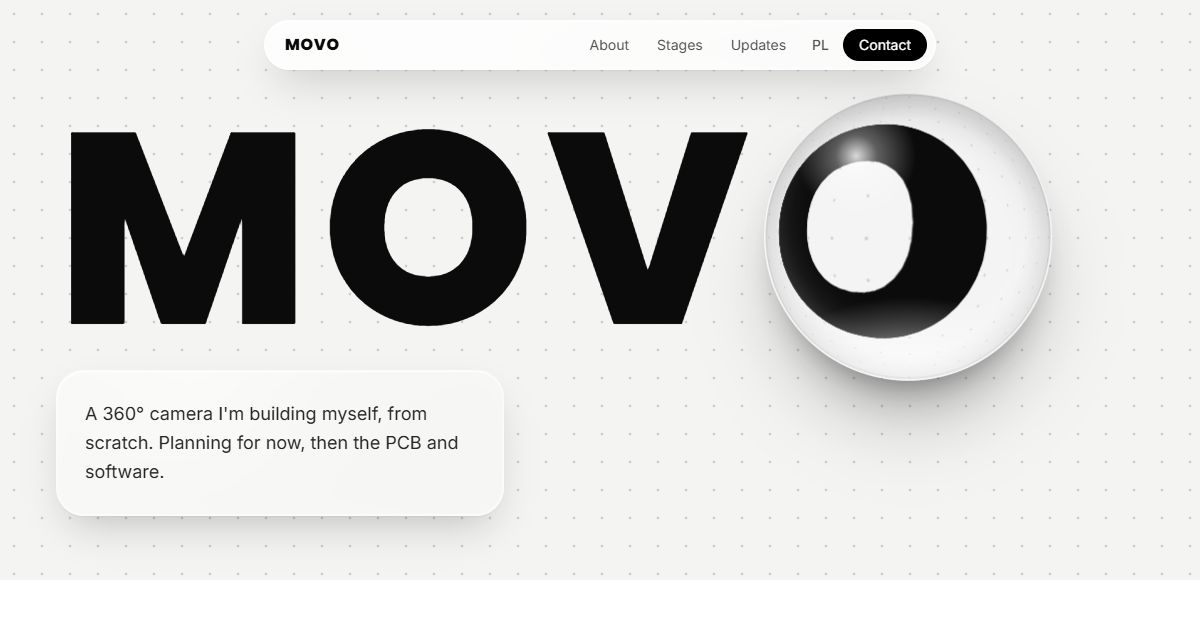
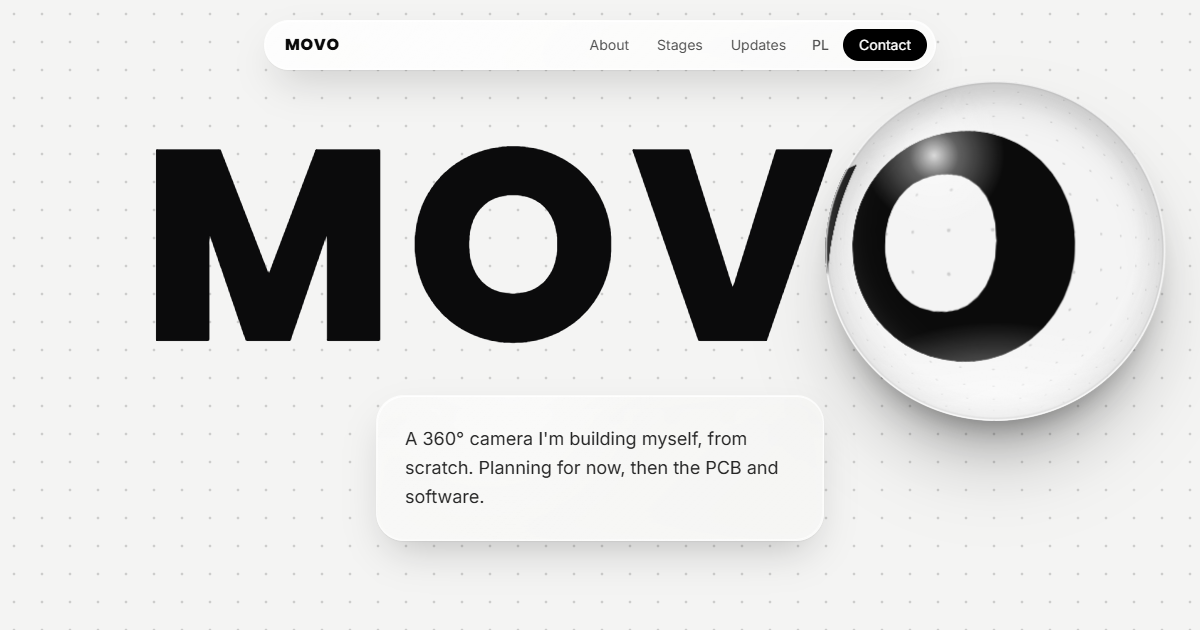
Hero wyśrodkowany, soczewka dopasowana do ekranu

diff --git a/tw.css b/tw.css
@@ -1,1 +1,1 @@
-*,:after,:before{--tw-border-spacing-x:0;--tw-border-spacing-y:0;--tw-translate-x:0;--tw-translate-y:0;--tw-rotate:0;--tw-skew-x:0;--tw-skew-y:0;--tw-scale-x:1;--tw-scale-y:1;--tw-pan-x: ;--tw-pan-y: ;--tw-pinch-zoom: ;--tw-scroll-snap-strictness:proximity;--tw-gradient-from-position: ;--tw-gradient-via-position: ;--tw-gradient-to-position: ;--tw-ordinal: ;--tw-slashed-zero: ;--tw-numeric-figure: ;--tw-numeric-spacing: ;--tw-numeric-fraction: ;--tw-ring-inset: ;--tw-ring-offset-width:0px;--tw-ring-offset-color:#fff;--tw-ring-color:rgba(59,130,246,.5);--tw-ring-offset-shadow:0 0 #0000;--tw-ring-shadow:0 0 #0000;--tw-shadow:0 0 #0000;--tw-shadow-colored:0 0 #0000;--tw-blur: ;--tw-brightness: ;--tw-contrast: ;--tw-grayscale: ;--tw-hue-rotate: ;--tw-invert: ;--tw-saturate: ;--tw-sepia: ;--tw-drop-shadow: ;--tw-backdrop-blur: ;--tw-backdrop-brightness: ;--tw-backdrop-contrast: ;--tw-backdrop-grayscale: ;--tw-backdrop-hue-rotate: ;--tw-backdrop-invert: ;--tw-backdrop-opacity: ;--tw-backdrop-saturate: ;--tw-backdrop-sepia: ;--tw-contain-size: ;--tw-contain-layout: ;--tw-contain-paint: ;--tw-contain-style: }::backdrop{--tw-border-spacing-x:0;--tw-border-spacing-y:0;--tw-translate-x:0;--tw-translate-y:0;--tw-rotate:0;--tw-skew-x:0;--tw-skew-y:0;--tw-scale-x:1;--tw-scale-y:1;--tw-pan-x: ;--tw-pan-y: ;--tw-pinch-zoom: ;--tw-scroll-snap-strictness:proximity;--tw-gradient-from-position: ;--tw-gradient-via-position: ;--tw-gradient-to-position: ;--tw-ordinal: ;--tw-slashed-zero: ;--tw-numeric-figure: ;--tw-numeric-spacing: ;--tw-numeric-fraction: ;--tw-ring-inset: ;--tw-ring-offset-width:0px;--tw-ring-offset-color:#fff;--tw-ring-color:rgba(59,130,246,.5);--tw-ring-offset-shadow:0 0 #0000;--tw-ring-shadow:0 0 #0000;--tw-shadow:0 0 #0000;--tw-shadow-colored:0 0 #0000;--tw-blur: ;--tw-brightness: ;--tw-contrast: ;--tw-grayscale: ;--tw-hue-rotate: ;--tw-invert: ;--tw-saturate: ;--tw-sepia: ;--tw-drop-shadow: ;--tw-backdrop-blur: ;--tw-backdrop-brightness: ;--tw-backdrop-contrast: ;--tw-backdrop-grayscale: ;--tw-backdrop-hue-rotate: ;--tw-backdrop-invert: ;--tw-backdrop-opacity: ;--tw-backdrop-saturate: ;--tw-backdrop-sepia: ;--tw-contain-size: ;--tw-contain-layout: ;--tw-contain-paint: ;--tw-contain-style: }/*! tailwindcss v3.4.17 | MIT License | https://tailwindcss.com*/*,:after,:before{box-sizing:border-box;border:0 solid #e5e7eb}:after,:before{--tw-content:""}:host,html{line-height:1.5;-webkit-text-size-adjust:100%;-moz-tab-size:4;-o-tab-size:4;tab-size:4;font-family:Inter,system-ui,sans-serif;font-feature-settings:normal;font-variation-settings:normal;-webkit-tap-highlight-color:transparent}body{margin:0;line-height:inherit}hr{height:0;color:inherit;border-top-width:1px}abbr:where([title]){-webkit-text-decoration:underline dotted;text-decoration:underline dotted}h1,h2,h3,h4,h5,h6{font-size:inherit;font-weight:inherit}a{color:inherit;text-decoration:inherit}b,strong{font-weight:bolder}code,kbd,pre,samp{font-family:ui-monospace,SFMono-Regular,Menlo,Monaco,Consolas,Liberation Mono,Courier New,monospace;font-feature-settings:normal;font-variation-settings:normal;font-size:1em}small{font-size:80%}sub,sup{font-size:75%;line-height:0;position:relative;vertical-align:baseline}sub{bottom:-.25em}sup{top:-.5em}table{text-indent:0;border-color:inherit;border-collapse:collapse}button,input,optgroup,select,textarea{font-family:inherit;font-feature-settings:inherit;font-variation-settings:inherit;font-size:100%;font-weight:inherit;line-height:inherit;letter-spacing:inherit;color:inherit;margin:0;padding:0}button,select{text-transform:none}button,input:where([type=button]),input:where([type=reset]),input:where([type=submit]){-webkit-appearance:button;background-color:transparent;background-image:none}:-moz-focusring{outline:auto}:-moz-ui-invalid{box-shadow:none}progress{vertical-align:baseline}::-webkit-inner-spin-button,::-webkit-outer-spin-button{height:auto}[type=search]{-webkit-appearance:textfield;outline-offset:-2px}::-webkit-search-decoration{-webkit-appearance:none}::-webkit-file-upload-button{-webkit-appearance:button;font:inherit}summary{display:list-item}blockquote,dd,dl,figure,h1,h2,h3,h4,h5,h6,hr,p,pre{margin:0}fieldset{margin:0}fieldset,legend{padding:0}menu,ol,ul{list-style:none;margin:0;padding:0}dialog{padding:0}textarea{resize:vertical}input::-moz-placeholder,textarea::-moz-placeholder{opacity:1;color:#9ca3af}input::placeholder,textarea::placeholder{opacity:1;color:#9ca3af}[role=button],button{cursor:pointer}:disabled{cursor:default}audio,canvas,embed,iframe,img,object,svg,video{display:block;vertical-align:middle}img,video{max-width:100%;height:auto}[hidden]:where(:not([hidden=until-found])){display:none}.pointer-events-none{pointer-events:none}.fixed{position:fixed}.absolute{position:absolute}.relative{position:relative}.inset-x-0{left:0;right:0}.inset-x-3{left:.75rem;right:.75rem}.inset-x-6{left:1.5rem;right:1.5rem}.-bottom-20{bottom:-5rem}.-bottom-32{bottom:-8rem}.-left-16{left:-4rem}.-left-20{left:-5rem}.-left-24{left:-6rem}.-left-\[7px\]{left:-7px}.-right-16{right:-4rem}.-right-32{right:-8rem}.-right-40{right:-10rem}.-top-10{top:-2.5rem}.-top-20{top:-5rem}.bottom-0{bottom:0}.bottom-10{bottom:2.5rem}.bottom-3{bottom:.75rem}.bottom-6{bottom:1.5rem}.left-10{left:2.5rem}.top-0{top:0}.top-1\/3{top:33.333333%}.top-10{top:2.5rem}.top-3{top:.75rem}.z-50{z-index:50}.z-\[1\]{z-index:1}.z-\[3\]{z-index:3}.z-\[60\]{z-index:60}.z-\[70\]{z-index:70}.mx-auto{margin-left:auto;margin-right:auto}.mb-6{margin-bottom:1.5rem}.mb-8{margin-bottom:2rem}.mt-1\.5{margin-top:.375rem}.mt-10{margin-top:2.5rem}.mt-12{margin-top:3rem}.mt-14{margin-top:3.5rem}.mt-2{margin-top:.5rem}.mt-3{margin-top:.75rem}.mt-4{margin-top:1rem}.mt-5{margin-top:1.25rem}.mt-6{margin-top:1.5rem}.mt-8{margin-top:2rem}.line-clamp-3{overflow:hidden;display:-webkit-box;-webkit-box-orient:vertical;-webkit-line-clamp:3}.block{display:block}.inline-block{display:inline-block}.flex{display:flex}.grid{display:grid}.contents{display:contents}.hidden{display:none}.aspect-\[4\/5\]{aspect-ratio:4/5}.aspect-square{aspect-ratio:1/1}.h-2{height:.5rem}.h-3\.5{height:.875rem}.h-\[2px\]{height:2px}.h-full{height:100%}.min-h-\[1\.25rem\]{min-height:1.25rem}.min-h-\[92svh\]{min-height:92svh}.min-h-screen{min-height:100vh}.min-h-svh{min-height:100svh}.w-2{width:.5rem}.w-3\.5{width:.875rem}.w-\[22\%\]{width:22%}.w-\[45vw\]{width:45vw}.w-\[60vw\]{width:60vw}.w-\[70vw\]{width:70vw}.w-\[75\%\]{width:75%}.w-\[80vw\]{width:80vw}.w-\[85\%\]{width:85%}.w-\[90vw\]{width:90vw}.w-full{width:100%}.min-w-0{min-width:0}.max-w-2xl{max-width:42rem}.max-w-3xl{max-width:48rem}.max-w-6xl{max-width:72rem}.max-w-\[340px\]{max-width:340px}.max-w-\[420px\]{max-width:420px}.max-w-\[520px\]{max-width:520px}.max-w-\[620px\]{max-width:620px}.max-w-\[700px\]{max-width:700px}.max-w-lg{max-width:32rem}.max-w-md{max-width:28rem}.max-w-sm{max-width:24rem}.max-w-xl{max-width:36rem}.flex-1{flex:1 1 0%}.shrink-0{flex-shrink:0}.origin-left{transform-origin:left}.scale-x-0{--tw-scale-x:0}.scale-x-0,.transform{transform:translate(var(--tw-translate-x),var(--tw-translate-y)) rotate(var(--tw-rotate)) skewX(var(--tw-skew-x)) skewY(var(--tw-skew-y)) scaleX(var(--tw-scale-x)) scaleY(var(--tw-scale-y))}@keyframes ping{75%,to{transform:scale(2);opacity:0}}.animate-ping{animation:ping 1s cubic-bezier(0,0,.2,1) infinite}@keyframes pulse{50%{opacity:.5}}.animate-pulse{animation:pulse 2s cubic-bezier(.4,0,.6,1) infinite}.resize{resize:both}.list-decimal{list-style-type:decimal}.flex-col{flex-direction:column}.flex-wrap{flex-wrap:wrap}.place-items-center{place-items:center}.items-start{align-items:flex-start}.items-end{align-items:flex-end}.items-center{align-items:center}.items-baseline{align-items:baseline}.justify-between{justify-content:space-between}.gap-1{gap:.25rem}.gap-1\.5{gap:.375rem}.gap-10{gap:2.5rem}.gap-2{gap:.5rem}.gap-3{gap:.75rem}.gap-4{gap:1rem}.gap-x-3{-moz-column-gap:.75rem;column-gap:.75rem}.gap-y-1{row-gap:.25rem}.space-y-1>:not([hidden])~:not([hidden]){--tw-space-y-reverse:0;margin-top:calc(.25rem*(1 - var(--tw-space-y-reverse)));margin-bottom:calc(.25rem*var(--tw-space-y-reverse))}.divide-y>:not([hidden])~:not([hidden]){--tw-divide-y-reverse:0;border-top-width:calc(1px*(1 - var(--tw-divide-y-reverse)));border-bottom-width:calc(1px*var(--tw-divide-y-reverse))}.divide-black\/10>:not([hidden])~:not([hidden]){border-color:rgba(0,0,0,.1)}.overflow-hidden,.truncate{overflow:hidden}.truncate{text-overflow:ellipsis;white-space:nowrap}.break-all{word-break:break-all}.rounded-2xl{border-radius:1rem}.rounded-\[22px\]{border-radius:22px}.rounded-\[24px\]{border-radius:24px}.rounded-\[28px\]{border-radius:28px}.rounded-\[32px\]{border-radius:32px}.rounded-full{border-radius:9999px}.rounded-xl{border-radius:.75rem}.border{border-width:1px}.border-\[3px\]{border-width:3px}.border-b{border-bottom-width:1px}.border-l{border-left-width:1px}.border-t{border-top-width:1px}.border-black{--tw-border-opacity:1;border-color:rgb(0 0 0/var(--tw-border-opacity,1))}.border-black\/10{border-color:rgba(0,0,0,.1)}.border-black\/15{border-color:rgba(0,0,0,.15)}.border-black\/30{border-color:rgba(0,0,0,.3)}.border-white\/10{border-color:hsla(0,0%,100%,.1)}.border-white\/15{border-color:hsla(0,0%,100%,.15)}.bg-\[\#f4f4f3\]{--tw-bg-opacity:1;background-color:rgb(244 244 243/var(--tw-bg-opacity,1))}.bg-black{--tw-bg-opacity:1;background-color:rgb(0 0 0/var(--tw-bg-opacity,1))}.bg-black\/30{background-color:rgba(0,0,0,.3)}.bg-neutral-800{--tw-bg-opacity:1;background-color:rgb(38 38 38/var(--tw-bg-opacity,1))}.bg-white{--tw-bg-opacity:1;background-color:rgb(255 255 255/var(--tw-bg-opacity,1))}.bg-white\/70{background-color:hsla(0,0%,100%,.7)}.p-4{padding:1rem}.p-5{padding:1.25rem}.p-6{padding:1.5rem}.p-7{padding:1.75rem}.px-1{padding-left:.25rem;padding-right:.25rem}.px-2{padding-left:.5rem;padding-right:.5rem}.px-2\.5{padding-left:.625rem;padding-right:.625rem}.px-3{padding-left:.75rem;padding-right:.75rem}.px-4{padding-left:1rem;padding-right:1rem}.px-5{padding-left:1.25rem;padding-right:1.25rem}.px-6{padding-left:1.5rem;padding-right:1.5rem}.py-1\.5{padding-top:.375rem;padding-bottom:.375rem}.py-10{padding-top:2.5rem;padding-bottom:2.5rem}.py-2{padding-top:.5rem;padding-bottom:.5rem}.py-2\.5{padding-top:.625rem;padding-bottom:.625rem}.py-24{padding-top:6rem;padding-bottom:6rem}.py-3{padding-top:.75rem;padding-bottom:.75rem}.py-4{padding-top:1rem;padding-bottom:1rem}.py-9{padding-top:2.25rem;padding-bottom:2.25rem}.pb-10{padding-bottom:2.5rem}.pb-24{padding-bottom:6rem}.pb-6{padding-bottom:1.5rem}.pl-5{padding-left:1.25rem}.pl-8{padding-left:2rem}.pr-2{padding-right:.5rem}.pt-28{padding-top:7rem}.pt-32{padding-top:8rem}.pt-4{padding-top:1rem}.text-right{text-align:right}.font-display{font-family:Inter Tight,Inter,system-ui,sans-serif}.font-mono{font-family:ui-monospace,SFMono-Regular,Menlo,Monaco,Consolas,Liberation Mono,Courier New,monospace}.font-sans{font-family:Inter,system-ui,sans-serif}.text-2xl{font-size:1.5rem;line-height:2rem}.text-3xl{font-size:1.875rem;line-height:2.25rem}.text-4xl{font-size:2.25rem;line-height:2.5rem}.text-6xl{font-size:3.75rem;line-height:1}.text-\[7rem\]{font-size:7rem}.text-base{font-size:1rem;line-height:1.5rem}.text-lg{font-size:1.125rem;line-height:1.75rem}.text-sm{font-size:.875rem;line-height:1.25rem}.text-xl{font-size:1.25rem;line-height:1.75rem}.text-xs{font-size:.75rem;line-height:1rem}.font-bold{font-weight:700}.font-extrabold{font-weight:800}.font-medium{font-weight:500}.font-semibold{font-weight:600}.uppercase{text-transform:uppercase}.normal-case{text-transform:none}.tabular-nums{--tw-numeric-spacing:tabular-nums;font-variant-numeric:var(--tw-ordinal) var(--tw-slashed-zero) var(--tw-numeric-figure) var(--tw-numeric-spacing) var(--tw-numeric-fraction)}.leading-\[0\.75\]{line-height:.75}.leading-relaxed{line-height:1.625}.leading-snug{line-height:1.375}.tracking-normal{letter-spacing:0}.tracking-tight{letter-spacing:-.025em}.tracking-tighter{letter-spacing:-.05em}.tracking-wider{letter-spacing:.05em}.text-black{--tw-text-opacity:1;color:rgb(0 0 0/var(--tw-text-opacity,1))}.text-neutral-400{--tw-text-opacity:1;color:rgb(163 163 163/var(--tw-text-opacity,1))}.text-neutral-500{--tw-text-opacity:1;color:rgb(115 115 115/var(--tw-text-opacity,1))}.text-neutral-600{--tw-text-opacity:1;color:rgb(82 82 82/var(--tw-text-opacity,1))}.text-neutral-800{--tw-text-opacity:1;color:rgb(38 38 38/var(--tw-text-opacity,1))}.text-neutral-950{--tw-text-opacity:1;color:rgb(10 10 10/var(--tw-text-opacity,1))}.text-white{--tw-text-opacity:1;color:rgb(255 255 255/var(--tw-text-opacity,1))}.underline{text-decoration-line:underline}.underline-offset-4{text-underline-offset:4px}.antialiased{-webkit-font-smoothing:antialiased;-moz-osx-font-smoothing:grayscale}.outline-none{outline:2px solid transparent;outline-offset:2px}.filter{filter:var(--tw-blur) var(--tw-brightness) var(--tw-contrast) var(--tw-grayscale) var(--tw-hue-rotate) var(--tw-invert) var(--tw-saturate) var(--tw-sepia) var(--tw-drop-shadow)}.transition{transition-property:color,background-color,border-color,text-decoration-color,fill,stroke,opacity,box-shadow,transform,filter,-webkit-backdrop-filter;transition-property:color,background-color,border-color,text-decoration-color,fill,stroke,opacity,box-shadow,transform,filter,backdrop-filter;transition-property:color,background-color,border-color,text-decoration-color,fill,stroke,opacity,box-shadow,transform,filter,backdrop-filter,-webkit-backdrop-filter;transition-timing-function:cubic-bezier(.4,0,.2,1);transition-duration:.15s}.selection\:bg-black ::-moz-selection{--tw-bg-opacity:1;background-color:rgb(0 0 0/var(--tw-bg-opacity,1))}.selection\:bg-black ::selection{--tw-bg-opacity:1;background-color:rgb(0 0 0/var(--tw-bg-opacity,1))}.selection\:text-white ::-moz-selection{--tw-text-opacity:1;color:rgb(255 255 255/var(--tw-text-opacity,1))}.selection\:text-white ::selection{--tw-text-opacity:1;color:rgb(255 255 255/var(--tw-text-opacity,1))}.selection\:bg-black::-moz-selection{--tw-bg-opacity:1;background-color:rgb(0 0 0/var(--tw-bg-opacity,1))}.selection\:bg-black::selection{--tw-bg-opacity:1;background-color:rgb(0 0 0/var(--tw-bg-opacity,1))}.selection\:text-white::-moz-selection{--tw-text-opacity:1;color:rgb(255 255 255/var(--tw-text-opacity,1))}.selection\:text-white::selection{--tw-text-opacity:1;color:rgb(255 255 255/var(--tw-text-opacity,1))}.hover\:bg-neutral-800:hover{--tw-bg-opacity:1;background-color:rgb(38 38 38/var(--tw-bg-opacity,1))}.hover\:bg-white:hover{--tw-bg-opacity:1;background-color:rgb(255 255 255/var(--tw-bg-opacity,1))}.hover\:bg-white\/60:hover{background-color:hsla(0,0%,100%,.6)}.hover\:text-black:hover{--tw-text-opacity:1;color:rgb(0 0 0/var(--tw-text-opacity,1))}.hover\:text-neutral-400:hover{--tw-text-opacity:1;color:rgb(163 163 163/var(--tw-text-opacity,1))}.hover\:text-white:hover{--tw-text-opacity:1;color:rgb(255 255 255/var(--tw-text-opacity,1))}.hover\:underline:hover{text-decoration-line:underline}.focus\:border-black:focus{--tw-border-opacity:1;border-color:rgb(0 0 0/var(--tw-border-opacity,1))}.disabled\:opacity-40:disabled{opacity:.4}.disabled\:opacity-50:disabled{opacity:.5}@media (min-width:640px){.sm\:bottom-6{bottom:1.5rem}.sm\:top-5{top:1.25rem}.sm\:col-span-2{grid-column:span 2/span 2}.sm\:block{display:block}.sm\:max-w-\[200px\]{max-width:200px}.sm\:grid-cols-2{grid-template-columns:repeat(2,minmax(0,1fr))}.sm\:flex-row{flex-direction:row}.sm\:items-center{align-items:center}.sm\:p-12{padding:3rem}.sm\:p-7{padding:1.75rem}.sm\:p-8{padding:2rem}.sm\:px-6{padding-left:1.5rem;padding-right:1.5rem}.sm\:py-16{padding-top:4rem;padding-bottom:4rem}.sm\:text-5xl{font-size:3rem;line-height:1}.sm\:text-8xl{font-size:6rem;line-height:1}}@media (min-width:768px){.md\:-top-\[7px\]{top:-7px}.md\:left-0{left:0}.md\:grid-cols-5{grid-template-columns:repeat(5,minmax(0,1fr))}.md\:grid-cols-\[170px_1fr\]{grid-template-columns:170px 1fr}.md\:grid-cols-\[1fr_1\.2fr\]{grid-template-columns:1fr 1.2fr}.md\:gap-10{gap:2.5rem}.md\:gap-16{gap:4rem}.md\:border-l-0{border-left-width:0}.md\:border-t{border-top-width:1px}.md\:border-black\/15{border-color:rgba(0,0,0,.15)}.md\:py-36{padding-top:9rem;padding-bottom:9rem}.md\:pb-0{padding-bottom:0}.md\:pb-16{padding-bottom:4rem}.md\:pl-0{padding-left:0}.md\:pr-6{padding-right:1.5rem}.md\:pt-40{padding-top:10rem}.md\:pt-8{padding-top:2rem}.md\:text-\[1\.75rem\]{font-size:1.75rem}}@media (min-width:1024px){.lg\:grid-cols-4{grid-template-columns:repeat(4,minmax(0,1fr))}.lg\:px-8{padding-left:2rem;padding-right:2rem}}
+*,:after,:before{--tw-border-spacing-x:0;--tw-border-spacing-y:0;--tw-translate-x:0;--tw-translate-y:0;--tw-rotate:0;--tw-skew-x:0;--tw-skew-y:0;--tw-scale-x:1;--tw-scale-y:1;--tw-pan-x: ;--tw-pan-y: ;--tw-pinch-zoom: ;--tw-scroll-snap-strictness:proximity;--tw-gradient-from-position: ;--tw-gradient-via-position: ;--tw-gradient-to-position: ;--tw-ordinal: ;--tw-slashed-zero: ;--tw-numeric-figure: ;--tw-numeric-spacing: ;--tw-numeric-fraction: ;--tw-ring-inset: ;--tw-ring-offset-width:0px;--tw-ring-offset-color:#fff;--tw-ring-color:rgba(59,130,246,.5);--tw-ring-offset-shadow:0 0 #0000;--tw-ring-shadow:0 0 #0000;--tw-shadow:0 0 #0000;--tw-shadow-colored:0 0 #0000;--tw-blur: ;--tw-brightness: ;--tw-contrast: ;--tw-grayscale: ;--tw-hue-rotate: ;--tw-invert: ;--tw-saturate: ;--tw-sepia: ;--tw-drop-shadow: ;--tw-backdrop-blur: ;--tw-backdrop-brightness: ;--tw-backdrop-contrast: ;--tw-backdrop-grayscale: ;--tw-backdrop-hue-rotate: ;--tw-backdrop-invert: ;--tw-backdrop-opacity: ;--tw-backdrop-saturate: ;--tw-backdrop-sepia: ;--tw-contain-size: ;--tw-contain-layout: ;--tw-contain-paint: ;--tw-contain-style: }::backdrop{--tw-border-spacing-x:0;--tw-border-spacing-y:0;--tw-translate-x:0;--tw-translate-y:0;--tw-rotate:0;--tw-skew-x:0;--tw-skew-y:0;--tw-scale-x:1;--tw-scale-y:1;--tw-pan-x: ;--tw-pan-y: ;--tw-pinch-zoom: ;--tw-scroll-snap-strictness:proximity;--tw-gradient-from-position: ;--tw-gradient-via-position: ;--tw-gradient-to-position: ;--tw-ordinal: ;--tw-slashed-zero: ;--tw-numeric-figure: ;--tw-numeric-spacing: ;--tw-numeric-fraction: ;--tw-ring-inset: ;--tw-ring-offset-width:0px;--tw-ring-offset-color:#fff;--tw-ring-color:rgba(59,130,246,.5);--tw-ring-offset-shadow:0 0 #0000;--tw-ring-shadow:0 0 #0000;--tw-shadow:0 0 #0000;--tw-shadow-colored:0 0 #0000;--tw-blur: ;--tw-brightness: ;--tw-contrast: ;--tw-grayscale: ;--tw-hue-rotate: ;--tw-invert: ;--tw-saturate: ;--tw-sepia: ;--tw-drop-shadow: ;--tw-backdrop-blur: ;--tw-backdrop-brightness: ;--tw-backdrop-contrast: ;--tw-backdrop-grayscale: ;--tw-backdrop-hue-rotate: ;--tw-backdrop-invert: ;--tw-backdrop-opacity: ;--tw-backdrop-saturate: ;--tw-backdrop-sepia: ;--tw-contain-size: ;--tw-contain-layout: ;--tw-contain-paint: ;--tw-contain-style: }/*! tailwindcss v3.4.17 | MIT License | https://tailwindcss.com*/*,:after,:before{box-sizing:border-box;border:0 solid #e5e7eb}:after,:before{--tw-content:""}:host,html{line-height:1.5;-webkit-text-size-adjust:100%;-moz-tab-size:4;-o-tab-size:4;tab-size:4;font-family:Inter,system-ui,sans-serif;font-feature-settings:normal;font-variation-settings:normal;-webkit-tap-highlight-color:transparent}body{margin:0;line-height:inherit}hr{height:0;color:inherit;border-top-width:1px}abbr:where([title]){-webkit-text-decoration:underline dotted;text-decoration:underline dotted}h1,h2,h3,h4,h5,h6{font-size:inherit;font-weight:inherit}a{color:inherit;text-decoration:inherit}b,strong{font-weight:bolder}code,kbd,pre,samp{font-family:ui-monospace,SFMono-Regular,Menlo,Monaco,Consolas,Liberation Mono,Courier New,monospace;font-feature-settings:normal;font-variation-settings:normal;font-size:1em}small{font-size:80%}sub,sup{font-size:75%;line-height:0;position:relative;vertical-align:baseline}sub{bottom:-.25em}sup{top:-.5em}table{text-indent:0;border-color:inherit;border-collapse:collapse}button,input,optgroup,select,textarea{font-family:inherit;font-feature-settings:inherit;font-variation-settings:inherit;font-size:100%;font-weight:inherit;line-height:inherit;letter-spacing:inherit;color:inherit;margin:0;padding:0}button,select{text-transform:none}button,input:where([type=button]),input:where([type=reset]),input:where([type=submit]){-webkit-appearance:button;background-color:transparent;background-image:none}:-moz-focusring{outline:auto}:-moz-ui-invalid{box-shadow:none}progress{vertical-align:baseline}::-webkit-inner-spin-button,::-webkit-outer-spin-button{height:auto}[type=search]{-webkit-appearance:textfield;outline-offset:-2px}::-webkit-search-decoration{-webkit-appearance:none}::-webkit-file-upload-button{-webkit-appearance:button;font:inherit}summary{display:list-item}blockquote,dd,dl,figure,h1,h2,h3,h4,h5,h6,hr,p,pre{margin:0}fieldset{margin:0}fieldset,legend{padding:0}menu,ol,ul{list-style:none;margin:0;padding:0}dialog{padding:0}textarea{resize:vertical}input::-moz-placeholder,textarea::-moz-placeholder{opacity:1;color:#9ca3af}input::placeholder,textarea::placeholder{opacity:1;color:#9ca3af}[role=button],button{cursor:pointer}:disabled{cursor:default}audio,canvas,embed,iframe,img,object,svg,video{display:block;vertical-align:middle}img,video{max-width:100%;height:auto}[hidden]:where(:not([hidden=until-found])){display:none}.pointer-events-none{pointer-events:none}.fixed{position:fixed}.absolute{position:absolute}.relative{position:relative}.inset-x-0{left:0;right:0}.inset-x-3{left:.75rem;right:.75rem}.inset-x-6{left:1.5rem;right:1.5rem}.-bottom-20{bottom:-5rem}.-bottom-32{bottom:-8rem}.-left-16{left:-4rem}.-left-20{left:-5rem}.-left-24{left:-6rem}.-left-\[7px\]{left:-7px}.-right-16{right:-4rem}.-right-32{right:-8rem}.-right-40{right:-10rem}.-top-10{top:-2.5rem}.-top-20{top:-5rem}.bottom-0{bottom:0}.bottom-10{bottom:2.5rem}.bottom-3{bottom:.75rem}.bottom-6{bottom:1.5rem}.left-10{left:2.5rem}.top-0{top:0}.top-1\/3{top:33.333333%}.top-10{top:2.5rem}.top-3{top:.75rem}.z-50{z-index:50}.z-\[1\]{z-index:1}.z-\[3\]{z-index:3}.z-\[60\]{z-index:60}.z-\[70\]{z-index:70}.mx-auto{margin-left:auto;margin-right:auto}.mb-6{margin-bottom:1.5rem}.mb-8{margin-bottom:2rem}.mt-1\.5{margin-top:.375rem}.mt-10{margin-top:2.5rem}.mt-12{margin-top:3rem}.mt-14{margin-top:3.5rem}.mt-2{margin-top:.5rem}.mt-3{margin-top:.75rem}.mt-4{margin-top:1rem}.mt-5{margin-top:1.25rem}.mt-6{margin-top:1.5rem}.mt-8{margin-top:2rem}.line-clamp-3{overflow:hidden;display:-webkit-box;-webkit-box-orient:vertical;-webkit-line-clamp:3}.block{display:block}.inline-block{display:inline-block}.flex{display:flex}.grid{display:grid}.contents{display:contents}.hidden{display:none}.aspect-\[4\/5\]{aspect-ratio:4/5}.aspect-square{aspect-ratio:1/1}.h-2{height:.5rem}.h-3\.5{height:.875rem}.h-\[2px\]{height:2px}.h-full{height:100%}.min-h-\[1\.25rem\]{min-height:1.25rem}.min-h-\[100svh\]{min-height:100svh}.min-h-screen{min-height:100vh}.min-h-svh{min-height:100svh}.w-2{width:.5rem}.w-3\.5{width:.875rem}.w-\[22\%\]{width:22%}.w-\[45vw\]{width:45vw}.w-\[60vw\]{width:60vw}.w-\[70vw\]{width:70vw}.w-\[75\%\]{width:75%}.w-\[80vw\]{width:80vw}.w-\[85\%\]{width:85%}.w-\[90vw\]{width:90vw}.w-full{width:100%}.min-w-0{min-width:0}.max-w-2xl{max-width:42rem}.max-w-3xl{max-width:48rem}.max-w-6xl{max-width:72rem}.max-w-\[340px\]{max-width:340px}.max-w-\[420px\]{max-width:420px}.max-w-\[520px\]{max-width:520px}.max-w-\[620px\]{max-width:620px}.max-w-\[700px\]{max-width:700px}.max-w-lg{max-width:32rem}.max-w-md{max-width:28rem}.max-w-sm{max-width:24rem}.max-w-xl{max-width:36rem}.flex-1{flex:1 1 0%}.shrink-0{flex-shrink:0}.origin-left{transform-origin:left}.scale-x-0{--tw-scale-x:0}.scale-x-0,.transform{transform:translate(var(--tw-translate-x),var(--tw-translate-y)) rotate(var(--tw-rotate)) skewX(var(--tw-skew-x)) skewY(var(--tw-skew-y)) scaleX(var(--tw-scale-x)) scaleY(var(--tw-scale-y))}@keyframes ping{75%,to{transform:scale(2);opacity:0}}.animate-ping{animation:ping 1s cubic-bezier(0,0,.2,1) infinite}@keyframes pulse{50%{opacity:.5}}.animate-pulse{animation:pulse 2s cubic-bezier(.4,0,.6,1) infinite}.resize{resize:both}.list-decimal{list-style-type:decimal}.flex-col{flex-direction:column}.flex-wrap{flex-wrap:wrap}.place-items-center{place-items:center}.items-start{align-items:flex-start}.items-end{align-items:flex-end}.items-center{align-items:center}.items-baseline{align-items:baseline}.justify-between{justify-content:space-between}.gap-1{gap:.25rem}.gap-1\.5{gap:.375rem}.gap-10{gap:2.5rem}.gap-2{gap:.5rem}.gap-3{gap:.75rem}.gap-4{gap:1rem}.gap-x-3{-moz-column-gap:.75rem;column-gap:.75rem}.gap-y-1{row-gap:.25rem}.space-y-1>:not([hidden])~:not([hidden]){--tw-space-y-reverse:0;margin-top:calc(.25rem*(1 - var(--tw-space-y-reverse)));margin-bottom:calc(.25rem*var(--tw-space-y-reverse))}.divide-y>:not([hidden])~:not([hidden]){--tw-divide-y-reverse:0;border-top-width:calc(1px*(1 - var(--tw-divide-y-reverse)));border-bottom-width:calc(1px*var(--tw-divide-y-reverse))}.divide-black\/10>:not([hidden])~:not([hidden]){border-color:rgba(0,0,0,.1)}.overflow-hidden,.truncate{overflow:hidden}.truncate{text-overflow:ellipsis;white-space:nowrap}.break-all{word-break:break-all}.rounded-2xl{border-radius:1rem}.rounded-\[22px\]{border-radius:22px}.rounded-\[24px\]{border-radius:24px}.rounded-\[28px\]{border-radius:28px}.rounded-\[32px\]{border-radius:32px}.rounded-full{border-radius:9999px}.rounded-xl{border-radius:.75rem}.border{border-width:1px}.border-\[3px\]{border-width:3px}.border-b{border-bottom-width:1px}.border-l{border-left-width:1px}.border-t{border-top-width:1px}.border-black{--tw-border-opacity:1;border-color:rgb(0 0 0/var(--tw-border-opacity,1))}.border-black\/10{border-color:rgba(0,0,0,.1)}.border-black\/15{border-color:rgba(0,0,0,.15)}.border-black\/30{border-color:rgba(0,0,0,.3)}.border-white\/10{border-color:hsla(0,0%,100%,.1)}.border-white\/15{border-color:hsla(0,0%,100%,.15)}.bg-\[\#f4f4f3\]{--tw-bg-opacity:1;background-color:rgb(244 244 243/var(--tw-bg-opacity,1))}.bg-black{--tw-bg-opacity:1;background-color:rgb(0 0 0/var(--tw-bg-opacity,1))}.bg-black\/30{background-color:rgba(0,0,0,.3)}.bg-neutral-800{--tw-bg-opacity:1;background-color:rgb(38 38 38/var(--tw-bg-opacity,1))}.bg-white{--tw-bg-opacity:1;background-color:rgb(255 255 255/var(--tw-bg-opacity,1))}.bg-white\/70{background-color:hsla(0,0%,100%,.7)}.p-4{padding:1rem}.p-5{padding:1.25rem}.p-6{padding:1.5rem}.p-7{padding:1.75rem}.px-1{padding-left:.25rem;padding-right:.25rem}.px-2{padding-left:.5rem;padding-right:.5rem}.px-2\.5{padding-left:.625rem;padding-right:.625rem}.px-3{padding-left:.75rem;padding-right:.75rem}.px-4{padding-left:1rem;padding-right:1rem}.px-5{padding-left:1.25rem;padding-right:1.25rem}.px-6{padding-left:1.5rem;padding-right:1.5rem}.py-1\.5{padding-top:.375rem;padding-bottom:.375rem}.py-10{padding-top:2.5rem;padding-bottom:2.5rem}.py-2{padding-top:.5rem;padding-bottom:.5rem}.py-2\.5{padding-top:.625rem;padding-bottom:.625rem}.py-24{padding-top:6rem;padding-bottom:6rem}.py-3{padding-top:.75rem;padding-bottom:.75rem}.py-4{padding-top:1rem;padding-bottom:1rem}.py-9{padding-top:2.25rem;padding-bottom:2.25rem}.pb-10{padding-bottom:2.5rem}.pb-16{padding-bottom:4rem}.pb-24{padding-bottom:6rem}.pb-6{padding-bottom:1.5rem}.pl-5{padding-left:1.25rem}.pl-8{padding-left:2rem}.pr-2{padding-right:.5rem}.pt-28{padding-top:7rem}.pt-32{padding-top:8rem}.pt-4{padding-top:1rem}.text-left{text-align:left}.text-center{text-align:center}.text-right{text-align:right}.font-display{font-family:Inter Tight,Inter,system-ui,sans-serif}.font-mono{font-family:ui-monospace,SFMono-Regular,Menlo,Monaco,Consolas,Liberation Mono,Courier New,monospace}.font-sans{font-family:Inter,system-ui,sans-serif}.text-2xl{font-size:1.5rem;line-height:2rem}.text-3xl{font-size:1.875rem;line-height:2.25rem}.text-4xl{font-size:2.25rem;line-height:2.5rem}.text-6xl{font-size:3.75rem;line-height:1}.text-\[7rem\]{font-size:7rem}.text-base{font-size:1rem;line-height:1.5rem}.text-lg{font-size:1.125rem;line-height:1.75rem}.text-sm{font-size:.875rem;line-height:1.25rem}.text-xl{font-size:1.25rem;line-height:1.75rem}.text-xs{font-size:.75rem;line-height:1rem}.font-bold{font-weight:700}.font-extrabold{font-weight:800}.font-medium{font-weight:500}.font-semibold{font-weight:600}.uppercase{text-transform:uppercase}.normal-case{text-transform:none}.tabular-nums{--tw-numeric-spacing:tabular-nums;font-variant-numeric:var(--tw-ordinal) var(--tw-slashed-zero) var(--tw-numeric-figure) var(--tw-numeric-spacing) var(--tw-numeric-fraction)}.leading-\[0\.75\]{line-height:.75}.leading-relaxed{line-height:1.625}.leading-snug{line-height:1.375}.tracking-normal{letter-spacing:0}.tracking-tight{letter-spacing:-.025em}.tracking-tighter{letter-spacing:-.05em}.tracking-wider{letter-spacing:.05em}.text-black{--tw-text-opacity:1;color:rgb(0 0 0/var(--tw-text-opacity,1))}.text-neutral-400{--tw-text-opacity:1;color:rgb(163 163 163/var(--tw-text-opacity,1))}.text-neutral-500{--tw-text-opacity:1;color:rgb(115 115 115/var(--tw-text-opacity,1))}.text-neutral-600{--tw-text-opacity:1;color:rgb(82 82 82/var(--tw-text-opacity,1))}.text-neutral-800{--tw-text-opacity:1;color:rgb(38 38 38/var(--tw-text-opacity,1))}.text-neutral-950{--tw-text-opacity:1;color:rgb(10 10 10/var(--tw-text-opacity,1))}.text-white{--tw-text-opacity:1;color:rgb(255 255 255/var(--tw-text-opacity,1))}.underline{text-decoration-line:underline}.underline-offset-4{text-underline-offset:4px}.antialiased{-webkit-font-smoothing:antialiased;-moz-osx-font-smoothing:grayscale}.outline-none{outline:2px solid transparent;outline-offset:2px}.filter{filter:var(--tw-blur) var(--tw-brightness) var(--tw-contrast) var(--tw-grayscale) var(--tw-hue-rotate) var(--tw-invert) var(--tw-saturate) var(--tw-sepia) var(--tw-drop-shadow)}.transition{transition-property:color,background-color,border-color,text-decoration-color,fill,stroke,opacity,box-shadow,transform,filter,-webkit-backdrop-filter;transition-property:color,background-color,border-color,text-decoration-color,fill,stroke,opacity,box-shadow,transform,filter,backdrop-filter;transition-property:color,background-color,border-color,text-decoration-color,fill,stroke,opacity,box-shadow,transform,filter,backdrop-filter,-webkit-backdrop-filter;transition-timing-function:cubic-bezier(.4,0,.2,1);transition-duration:.15s}.selection\:bg-black ::-moz-selection{--tw-bg-opacity:1;background-color:rgb(0 0 0/var(--tw-bg-opacity,1))}.selection\:bg-black ::selection{--tw-bg-opacity:1;background-color:rgb(0 0 0/var(--tw-bg-opacity,1))}.selection\:text-white ::-moz-selection{--tw-text-opacity:1;color:rgb(255 255 255/var(--tw-text-opacity,1))}.selection\:text-white ::selection{--tw-text-opacity:1;color:rgb(255 255 255/var(--tw-text-opacity,1))}.selection\:bg-black::-moz-selection{--tw-bg-opacity:1;background-color:rgb(0 0 0/var(--tw-bg-opacity,1))}.selection\:bg-black::selection{--tw-bg-opacity:1;background-color:rgb(0 0 0/var(--tw-bg-opacity,1))}.selection\:text-white::-moz-selection{--tw-text-opacity:1;color:rgb(255 255 255/var(--tw-text-opacity,1))}.selection\:text-white::selection{--tw-text-opacity:1;color:rgb(255 255 255/var(--tw-text-opacity,1))}.hover\:bg-neutral-800:hover{--tw-bg-opacity:1;background-color:rgb(38 38 38/var(--tw-bg-opacity,1))}.hover\:bg-white:hover{--tw-bg-opacity:1;background-color:rgb(255 255 255/var(--tw-bg-opacity,1))}.hover\:bg-white\/60:hover{background-color:hsla(0,0%,100%,.6)}.hover\:text-black:hover{--tw-text-opacity:1;color:rgb(0 0 0/var(--tw-text-opacity,1))}.hover\:text-neutral-400:hover{--tw-text-opacity:1;color:rgb(163 163 163/var(--tw-text-opacity,1))}.hover\:text-white:hover{--tw-text-opacity:1;color:rgb(255 255 255/var(--tw-text-opacity,1))}.hover\:underline:hover{text-decoration-line:underline}.focus\:border-black:focus{--tw-border-opacity:1;border-color:rgb(0 0 0/var(--tw-border-opacity,1))}.disabled\:opacity-40:disabled{opacity:.4}.disabled\:opacity-50:disabled{opacity:.5}@media (min-width:640px){.sm\:bottom-6{bottom:1.5rem}.sm\:top-5{top:1.25rem}.sm\:col-span-2{grid-column:span 2/span 2}.sm\:block{display:block}.sm\:max-w-\[200px\]{max-width:200px}.sm\:grid-cols-2{grid-template-columns:repeat(2,minmax(0,1fr))}.sm\:flex-row{flex-direction:row}.sm\:items-center{align-items:center}.sm\:p-12{padding:3rem}.sm\:p-7{padding:1.75rem}.sm\:p-8{padding:2rem}.sm\:px-6{padding-left:1.5rem;padding-right:1.5rem}.sm\:py-16{padding-top:4rem;padding-bottom:4rem}.sm\:text-5xl{font-size:3rem;line-height:1}.sm\:text-8xl{font-size:6rem;line-height:1}}@media (min-width:768px){.md\:-top-\[7px\]{top:-7px}.md\:left-0{left:0}.md\:grid-cols-5{grid-template-columns:repeat(5,minmax(0,1fr))}.md\:grid-cols-\[170px_1fr\]{grid-template-columns:170px 1fr}.md\:grid-cols-\[1fr_1\.2fr\]{grid-template-columns:1fr 1.2fr}.md\:gap-10{gap:2.5rem}.md\:gap-16{gap:4rem}.md\:border-l-0{border-left-width:0}.md\:border-t{border-top-width:1px}.md\:border-black\/15{border-color:rgba(0,0,0,.15)}.md\:py-36{padding-top:9rem;padding-bottom:9rem}.md\:pb-0{padding-bottom:0}.md\:pl-0{padding-left:0}.md\:pr-6{padding-right:1.5rem}.md\:pt-40{padding-top:10rem}.md\:pt-8{padding-top:2rem}.md\:text-\[1\.75rem\]{font-size:1.75rem}}@media (min-width:1024px){.lg\:grid-cols-4{grid-template-columns:repeat(4,minmax(0,1fr))}.lg\:px-8{padding-left:2rem;padding-right:2rem}}

diff --git a/lens.js b/lens.js
@@ -69,12 +69,21 @@
     const m = g.measureText("M");
     const asc = m.fontBoundingBoxAscent || fs * 1.05;
     const desc = m.fontBoundingBoxDescent || fs * 0.35;
-    const wr = word.getBoundingClientRect();
-    const x0 = wr.left - hr.left + (parseFloat(cs.paddingLeft) || 0);
-    const top = wr.top - hr.top + (parseFloat(cs.paddingTop) || 0);
+    // pozycja napisu bez transformacji z animacji wejścia (offsetLeft/Top ich nie widzą)
+    let ox = 0, oy = 0;
+    for (let n = word; n && n !== host; n = n.offsetParent) { ox += n.offsetLeft; oy += n.offsetTop; }
+    const padL = parseFloat(cs.paddingLeft) || 0;
+    const padR = parseFloat(cs.paddingRight) || 0;
+    const contentW = word.clientWidth - padL - padR;
+    const chars = Array.from(word.textContent.trim());
+    const lineW = chars.reduce((sum, ch) => sum + g.measureText(ch).width + ls, 0);
+    let x0 = ox + padL;
+    if (cs.textAlign === "center") x0 += (contentW - lineW) / 2;
+    else if (cs.textAlign === "right" || cs.textAlign === "end") x0 += contentW - lineW;
+    const top = oy + (parseFloat(cs.paddingTop) || 0);
     const base = top + (lh - (asc + desc)) / 2 + asc;
     let x = x0;
-    for (const ch of word.textContent.trim()) {
+    for (const ch of chars) {
       g.fillText(ch, x, base);
       x += g.measureText(ch).width + ls;
     }
@@ -90,7 +99,7 @@
   // r·(0.62 + 0.63·r³): środek powiększony ~1.6×, a przy krawędzi soczewka
   // „zagina” obraz spoza siebie — jak prawdziwa szklana kula.
   function buildLens() {
-    size = Math.round(Math.min(Math.max(W * 0.24, 150), 340));
+    size = Math.round(Math.min(Math.max(text.h * 1.7, 120), 340)); // proporcjonalnie do napisu
     R = size / 2;
     D = Math.round(size * Math.min(dpr, 1.5)); // limit, żeby słabsze telefony nie gubiły klatek
     cv.width = D;
@@ -148,8 +157,13 @@
       y: text.y + text.h * (0.5 + 0.55 * Math.sin(t / 2900 + 1.3)),
     };
   }
+  // soczewka zawsze cała na ekranie
+  function clampToHost(p) {
+    const m = R + 8;
+    return { x: Math.min(Math.max(p.x, m), W - m), y: Math.min(Math.max(p.y, m), H - m) };
+  }
   function tick(t) {
-    if (!pointer) target = drift(t);
+    target = clampToHost(pointer || drift(t));
     pos.x += (target.x - pos.x) * 0.075;
     pos.y += (target.y - pos.y) * 0.075;
     render();
@@ -168,8 +182,12 @@
   function setPointer(e) {
     const hr = host.getBoundingClientRect();
     pointer = { x: e.clientX - hr.left, y: e.clientY - hr.top };
-    target = pointer;
-    if (reduced) { pos.x = target.x; pos.y = target.y; render(); }
+    if (reduced && R) {
+      const p = clampToHost(pointer);
+      pos.x = p.x;
+      pos.y = p.y;
+      render();
+    }
   }
   host.addEventListener("pointermove", setPointer, { passive: true });
   host.addEventListener("pointerdown", setPointer, { passive: true });
@@ -178,11 +196,9 @@
   function rebuild() {
     buildSource();
     buildLens();
-    if (!pos.x) {
-      const p = drift(performance.now());
-      pos.x = p.x;
-      pos.y = p.y;
-    }
+    const p = clampToHost(pos.x ? pos : drift(performance.now()));
+    pos.x = p.x;
+    pos.y = p.y;
     render();
   }
 

diff --git a/index.html b/index.html
@@ -46,12 +46,12 @@
 
   <main>
     <!-- HERO -->
-    <section data-lens-host class="lens-host relative flex min-h-[92svh] items-end overflow-hidden">
+    <section data-lens-host class="lens-host relative flex min-h-[100svh] items-center overflow-hidden">
 
-      <div class="relative mx-auto w-full max-w-6xl px-4 pb-10 pt-28 sm:px-6 md:pb-16 lg:px-8">
-        <h1 data-lens-text class="wordmark reveal relative z-[1]">MOVO</h1>
+      <div class="relative mx-auto flex w-full max-w-6xl flex-col items-center px-4 pb-16 pt-28 text-center sm:px-6 lg:px-8">
+        <h1 data-lens-text class="wordmark wordmark-center reveal relative z-[1]">MOVO</h1>
 
-        <div class="reveal glass relative z-[3] mt-8 max-w-md rounded-[28px] p-6 sm:p-7" style="transition-delay:120ms">
+        <div class="reveal glass relative z-[3] mt-10 max-w-md rounded-[28px] p-6 text-left sm:p-7" style="transition-delay:120ms">
           <p data-i18n="hero.lead" class="text-lg leading-relaxed text-neutral-800">
             A 360° camera I'm building myself, from scratch. Planning for now, then the PCB and software.
           </p>

diff --git a/404.html b/404.html
@@ -16,8 +16,8 @@
 </head>
 <body class="font-sans text-neutral-950 antialiased">
   <main data-lens-host class="lens-host relative flex min-h-svh items-center overflow-hidden">
-    <div class="relative mx-auto w-full max-w-6xl px-4 sm:px-6 lg:px-8">
-      <h1 data-lens-text class="wordmark relative z-[1]">404</h1>
+    <div class="relative mx-auto flex w-full max-w-6xl flex-col items-center px-4 text-center sm:px-6 lg:px-8">
+      <h1 data-lens-text class="wordmark wordmark-center relative z-[1]">404</h1>
       <div class="glass relative z-[3] mt-8 max-w-sm rounded-[28px] p-6">
         <p data-i18n="404.text" class="text-lg text-neutral-800">Nothing here. The lens is staring into the void.</p>
         <a href="/" data-i18n="404.back" class="mt-5 inline-block rounded-full bg-black px-5 py-2.5 text-sm font-medium text-white transition hover:bg-neutral-800">Back to the homepage</a>

diff --git a/styles.css b/styles.css
@@ -133,6 +133,12 @@ body {
   to { transform: rotate(360deg); }
 }
 
+/* letter-spacing dodaje odstęp też za ostatnią literą — ten padding go równoważy,
+   żeby wyśrodkowany napis był naprawdę na środku */
+.wordmark-center {
+  padding-left: 0.04em;
+}
+
 /* Logo MOVO — Poppins ExtraBold z rozsuniętymi literami, jak w oryginalnym logo */
 .logo {
   font-family: "Poppins", "Inter", system-ui, sans-serif;
